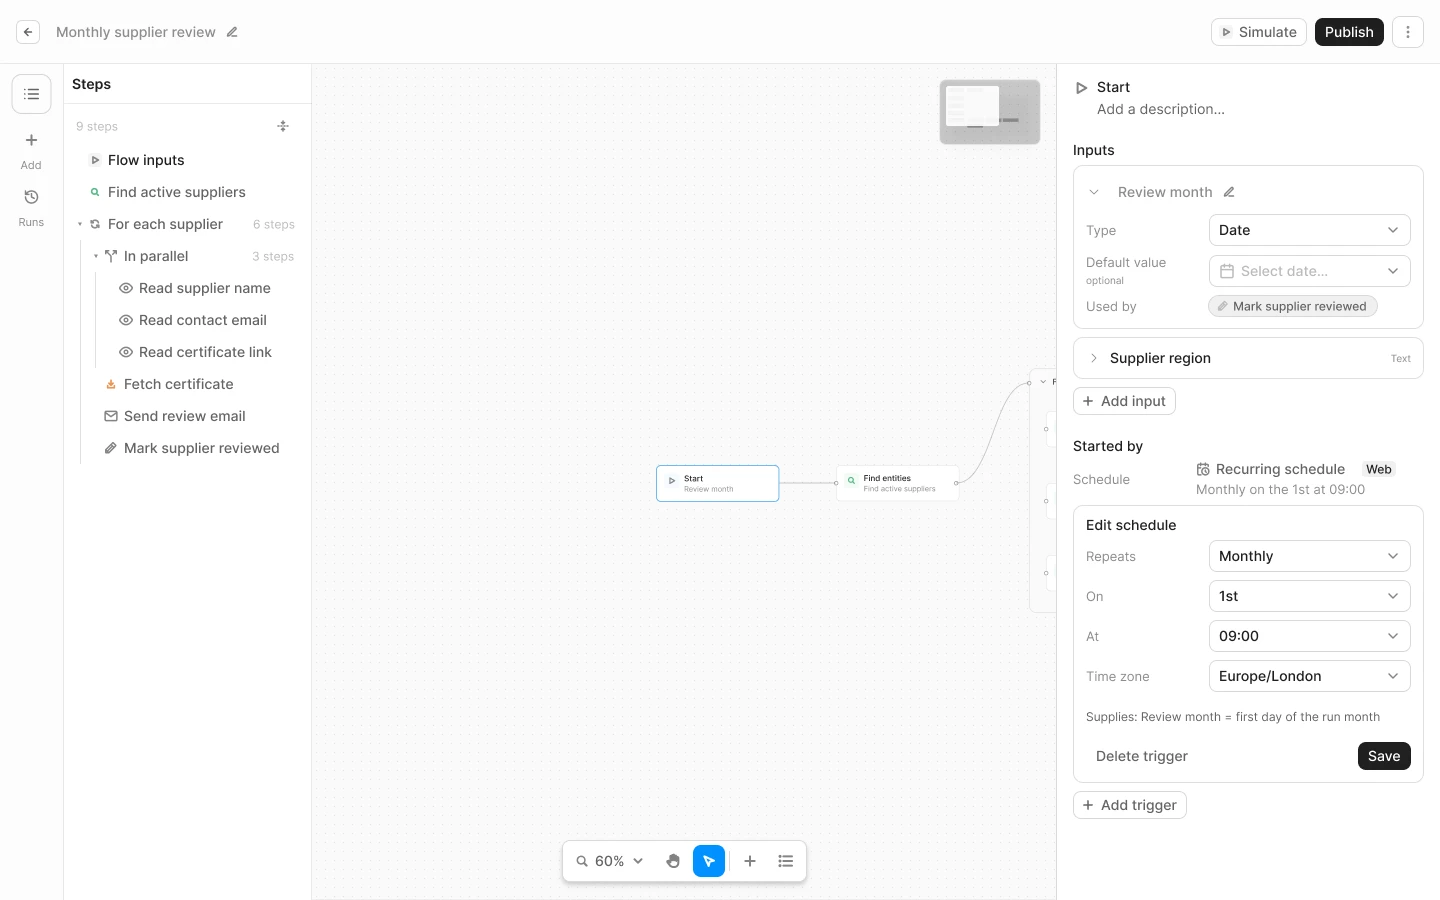
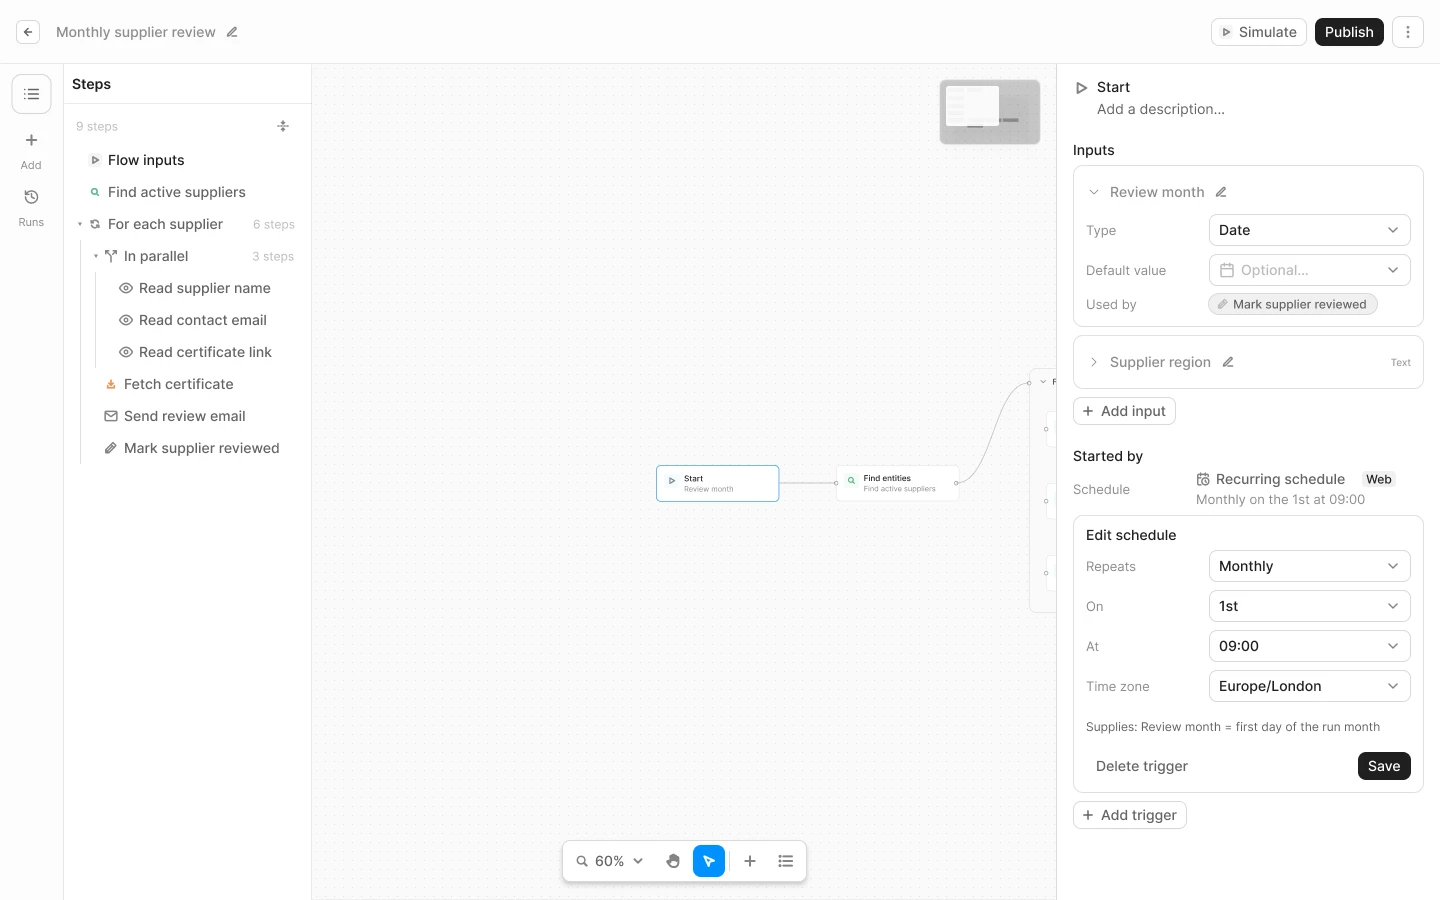
Flows editor: one-line menu rows get a 24 px tile; Start card exports
Follows the 3 Nov Figma changes on Journeys (J2.13 option B, J2.22
option B).

- In a menu that also has two-line rows, a one-line row now draws a
  24 px tile (6 px corners, the two-line tile's grey, a 14 px icon),
  centred in the 32 px icon column. The row is 36 px with 6 px padding.
  A row with no icon (Any) keeps an empty 32 x 24 slot so its label
  lines up. Two-line rows are unchanged.
- Start input cards are not built live, so only their exports change:
  the rename field sits right after the chevron, rows have one-line
  labels top-aligned to the select text, the "optional" line is gone
  (placeholder "Optional…"), and the collapsed card's 28 px title row
  ends with its type tag.
- Re-exports J0.10, J1.4, J1.9, J1.15, J2.13, J2.16, J2.22, J2.26,
  J2.28, J2.30, J2.31, J2.35, J2.44, J2.46, J4.1, J4.2, J4.3 and J5.14.

Changed region(s): [[0.75, 0.28, 0.9688, 0.6533], [0.75, 0.5911, 1.0, 0.9333], [0.7812, 0.1867, 0.8438, 0.2178]]

diff --git a/libs/@hashintel/petrinaut/flows-editor-prototype/src/menu-rows.tsx b/libs/@hashintel/petrinaut/flows-editor-prototype/src/menu-rows.tsx
@@ -1,6 +1,7 @@
 /**
  * Menu rows with a second line (Figma, 3 Nov): a 32 px icon tile centred across title and description, 12 px to the
- * text. In the same menu, a one-line row keeps its 14 px icon centred in a 32 px slot, so every row's text lines up.
+ * text. In the same menu, a one-line row draws a 24 px tile with its 14 px icon, centred in a 32 px slot, so every
+ * row's text lines up (J2.13 option B).
  *
  * DS gap G77: the DS Menu item's icon is an `IconName` drawn at the item size (14 px), so it cannot hold the tile.
  * The rows stay DS Menu items (keyboard, submenus, highlight) and carry this content as their `text`.
@@ -8,7 +9,7 @@
 import { Icon, type IconName, type ItemOrGroup, type MenuItem } from "@hashintel/ds-components";
 import { css, cva } from "@hashintel/ds-helpers/css";
 
-/** A row with a second line: 8 px above and below, 6 px in; a one-line row: 6 px all round; 4 px between rows. */
+/** A row with a second line: 8 px above and below, 6 px in; a one-line row: 6 px all round (36 px); 4 px between rows. */
 export const tiledRowsStyle = css({
   "& [role=menuitem]:has([data-menu-row])": {
     "--selectable-list-item-padding-x": "6px",
@@ -22,7 +23,7 @@ export const tiledRowsStyle = css({
   "& [role=menuitem]:has([data-menu-row]) + [role=menuitem]": {
     marginTop: "[4px]",
   },
-  // The DS text column and its custom-text wrapper hug the row, so a one-line row is 20 px inside (32 px in all).
+  // The DS text column and its custom-text wrapper hug the row, so a one-line row is its 24 px slot inside (36 px in all).
   "& [role=menuitem]:has([data-menu-row]) > span:has(> span > [data-menu-row])": {
     display: "flex",
     flex: "1",
@@ -44,14 +45,25 @@ const rowStyle = css({
   "&[data-menu-row=two]": { alignItems: "flex-start" },
 });
 
-/** The 32 px slot of a one-line row: the 14 px icon centred, or nothing (Any). */
+/** The 32 x 24 px slot of a one-line row: the 24 px tile centred, or nothing (Any), so the label still lines up. */
 const slotStyle = css({
   display: "inline-flex",
   alignItems: "center",
   justifyContent: "center",
   flexShrink: 0,
   width: "[32px]",
-  height: "[20px]",
+  height: "[24px]",
+});
+
+/** A one-line row's tile: 24 px, 6 px corners, the two-line tile's grey, a 14 px icon. */
+const smallTileStyle = css({
+  display: "inline-flex",
+  alignItems: "center",
+  justifyContent: "center",
+  width: "[24px]",
+  height: "[24px]",
+  borderRadius: "md",
+  backgroundColor: "neutral.a25",
   color: "neutral.fg.muted",
   "& svg": { width: "[14px]", height: "[14px]", "--icon-size": "14px" },
 });
@@ -164,7 +176,7 @@ export const MenuRow = ({
         </span>
       ) : (
         <span className={slotStyle} aria-hidden="true">
-          {glyph}
+          {glyph ? <span className={smallTileStyle}>{glyph}</span> : null}
         </span>
       )}
       <span className={textStyle}>
